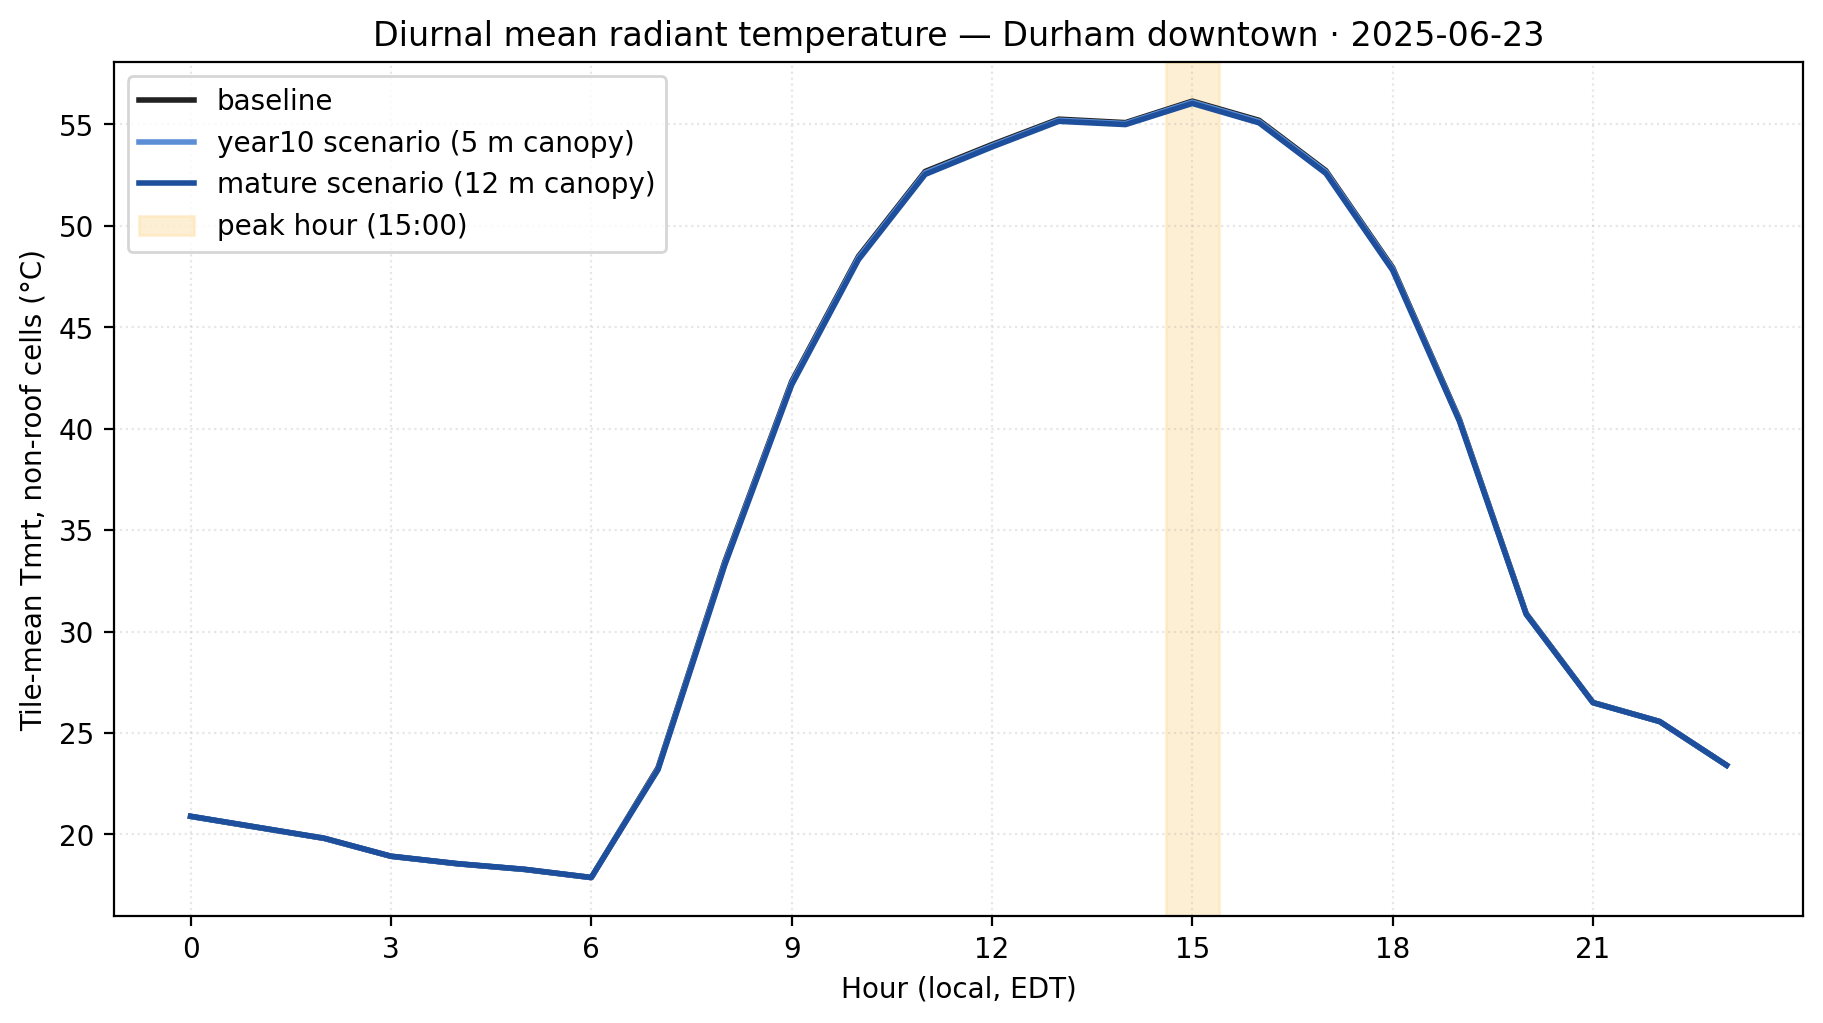
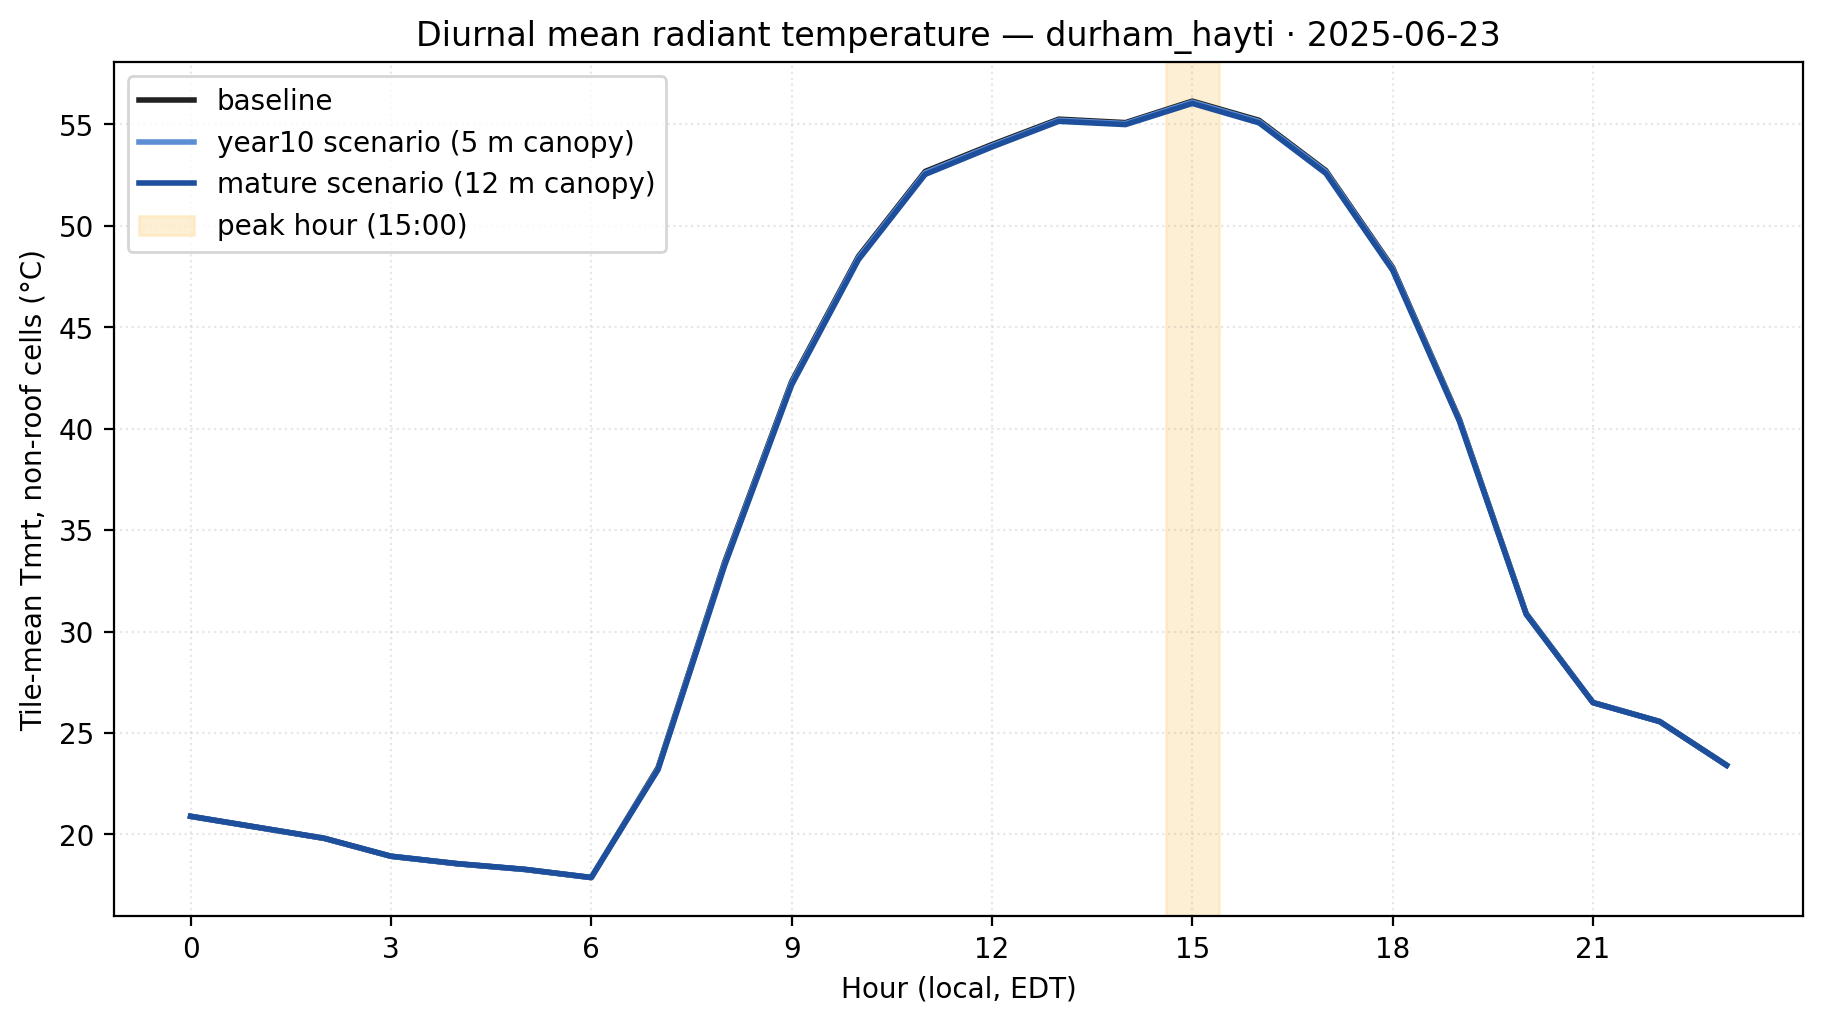
Reflection

Changed region(s): [[0.215, 0.0, 0.8294, 0.0606]]

diff --git a/scripts/07_make_figures.py b/scripts/07_make_figures.py
@@ -33,7 +33,7 @@ import numpy as np
 import rasterio
 import geopandas as gpd
 
-from _aoi import AOI_NAME, SIM_DATE, TILE_BBOX
+from _aoi import AOI_NAME, SIM_DATE, TILE_BBOX, AOI_SIZE_KM
 
 BASELINE = REPO / f"inputs/processed/{AOI_NAME}_baseline"
 TREES_GEOJSON = REPO / "inputs/raw/durham/trees_planting/durham_trees.geojson"
@@ -43,8 +43,28 @@ DIFF_DIR = REPO / f"outputs/{AOI_NAME}_scenario_diffs"
 DIFF_DIR.mkdir(parents=True, exist_ok=True)
 
 SCENARIOS = ["year10", "mature"]
+# PEAK_HOUR is the local hour with the highest tile-mean Tmrt across non-roof
+# pixels. Default 15 = mid-afternoon (typical CONUS summer peak), but main()
+# reassigns it to the discovered peak from the baseline TMRT — so a different
+# AOI / season picks the right hour automatically.
 PEAK_HOUR = 15
 NEAR_TREE_RADIUS_M = 30.0
+
+
+def discover_peak_hour(tmrt_path: Path, is_building: np.ndarray) -> int:
+    """Read all 24 bands of `tmrt_path`, mask roofs, return the hour (0..23)
+    with the highest non-roof tile mean. Used in place of a hardcoded peak
+    so Stage 7 picks the right hour for any AOI / date."""
+    means = []
+    with rasterio.open(tmrt_path) as ds:
+        for h in range(ds.count):
+            b = ds.read(h + 1).astype("float32")
+            v = b[(b > -100) & np.isfinite(b) & ~is_building]
+            means.append(float(v.mean()) if v.size else float("-inf"))
+    peak = int(np.argmax(means))
+    print(f"  peak hour discovered from baseline: {peak:02d}:00 "
+          f"(non-roof tile-mean Tmrt = {means[peak]:.1f}°C)")
+    return peak
 
 
 def load_planted_points() -> gpd.GeoDataFrame:
@@ -80,16 +100,17 @@ def merged_raster(output_folder: Path, prefix: str = "TMRT") -> tuple[Path, dict
             return merged, dict(transform=ds.transform, bounds=ds.bounds, shape=ds.shape)
     from rasterio.merge import merge as rio_merge
     handles = [rasterio.open(p) for p in tiles]
-    arr, transform = rio_merge(handles)  # arr shape: (bands, H, W)
+    nodata_val = handles[0].nodata  # carry through so downstream isfinite/nodata checks see it
+    arr, transform = rio_merge(handles, nodata=nodata_val)  # arr shape: (bands, H, W)
     profile = handles[0].profile.copy()
     for h in handles:
         h.close()
     profile.update(height=arr.shape[1], width=arr.shape[2], transform=transform,
-                   count=arr.shape[0], compress="lzw")
+                   count=arr.shape[0], compress="lzw", nodata=nodata_val)
     with rasterio.open(merged, "w", **profile) as out:
         out.write(arr)
     print(f"  merged {len(tiles)} {prefix} tiles → {merged.name} "
-          f"(shape {arr.shape[1]}×{arr.shape[2]}, {arr.shape[0]} bands)")
+          f"(shape {arr.shape[1]}×{arr.shape[2]}, {arr.shape[0]} bands, nodata={nodata_val})")
     with rasterio.open(merged) as ds:
         return merged, dict(transform=ds.transform, bounds=ds.bounds, shape=ds.shape)
 
@@ -151,7 +172,7 @@ def fig1_three_panel(scenario: str, base_t: np.ndarray, scen_t: np.ndarray,
         ax.set_xticks([]); ax.set_yticks([])
         ax.set_aspect("equal")
 
-    fig.suptitle(f"Durham downtown — {SIM_DATE} — '{scenario}' canopy scenario",
+    fig.suptitle(f"{AOI_NAME} — {SIM_DATE} — '{scenario}' canopy scenario",
                  fontsize=12, y=1.02)
     out = FIG_DIR / f"fig1_three_panel_{scenario}.png"
     fig.savefig(out, dpi=200, bbox_inches="tight")
@@ -172,7 +193,7 @@ def fig2_histogram(diffs_by_scenario: dict[str, np.ndarray]) -> None:
     ax.set_xlabel(f"ΔTmrt at peak hour h={PEAK_HOUR} local (°C)")
     ax.set_ylabel("number of pedestrian-accessible cells")
     ax.set_title(f"Tmrt change near planted sites (≤{NEAR_TREE_RADIUS_M:.0f} m, non-roof)\n"
-                 f"Durham downtown · {SIM_DATE}")
+                 f"{AOI_NAME} · {SIM_DATE}")
     ax.legend()
     ax.set_yscale("log")
     out = FIG_DIR / "fig2_near_tree_histogram.png"
@@ -195,7 +216,7 @@ def fig3_diurnal(hourly: dict[str, list[float]]) -> None:
                label=f"peak hour ({PEAK_HOUR}:00)")
     ax.set_xlabel("Hour (local, EDT)")
     ax.set_ylabel("Tile-mean Tmrt, non-roof cells (°C)")
-    ax.set_title(f"Diurnal mean radiant temperature — Durham downtown · {SIM_DATE}")
+    ax.set_title(f"Diurnal mean radiant temperature — {AOI_NAME} · {SIM_DATE}")
     ax.set_xticks(range(0, 24, 3))
     ax.grid(alpha=0.3, linestyle=":")
     ax.legend(loc="upper left")
@@ -208,12 +229,16 @@ def fig3_diurnal(hourly: dict[str, list[float]]) -> None:
 # ----------------------------------------------------------- main
 
 def main() -> None:
+    global PEAK_HOUR
     print(f"== reading rasters ==")
     is_building = building_mask()
     pts = load_planted_points()
     print(f"  {len(pts)} planted points; {is_building.sum():,} building cells")
 
     base_tmrt_path, geom = merged_tmrt(BASELINE / "output_folder")
+    # Reassign the module-level PEAK_HOUR so fig titles / labels (which read it
+    # at call time) reflect the actual baseline peak, not the hardcoded default.
+    PEAK_HOUR = discover_peak_hour(base_tmrt_path, is_building)
     base_peak = read_band(base_tmrt_path, PEAK_HOUR + 1)
     bounds, transform, shape = geom["bounds"], geom["transform"], geom["shape"]
 
@@ -312,7 +337,8 @@ def main() -> None:
     headline_lines = [
         f"== Durham planted-tree intervention — peak hour ({PEAK_HOUR}:00 local, "
         f"{SIM_DATE}) ==", "",
-        f"At the {len(pts)} planned planting sites in the 1 km × 1 km downtown tile,",
+        f"At the {len(pts)} planned planting sites in the "
+        f"{AOI_SIZE_KM:g} km × {AOI_SIZE_KM:g} km {AOI_NAME} tile,",
         f"Durham's program delivers (median across planted pixels):", "",
     ]
     for h in head:

diff --git a/scripts/06_run_scenario.py b/scripts/06_run_scenario.py
@@ -6,7 +6,7 @@ Iterates over every `inputs/processed/{AOI_NAME}_scenario_*/` directory, fires
 
 Logs to `outputs/{AOI_NAME}_scenario_run.log` for live monitoring:
 
-    tail -f outputs/durham_downtown_scenario_run.log
+    tail -f outputs/{AOI_NAME}_scenario_run.log
 """
 from __future__ import annotations
 
@@ -113,15 +113,40 @@ def _patch_skip_walls_if_cached() -> None:
     wa.run_parallel_processing = run_with_skip
 
 
+def _scenario_outputs_complete(base: Path) -> tuple[bool, list[str]]:
+    """True iff every expected per-tile TMRT and UTCI output exists. Compares
+    against the Building_DSM tile set produced earlier in the same run, so it
+    works for any tile_size. Returns (complete, missing_paths)."""
+    out = base / "output_folder"
+    dsm_tiles = sorted((base / "processed_inputs" / "Building_DSM").glob("*.tif"))
+    if not out.exists() or not dsm_tiles:
+        return False, []
+    keys = [p.stem.replace("Building_DSM_", "") for p in dsm_tiles]
+    missing = []
+    for k in keys:
+        for prefix in ("TMRT", "UTCI"):
+            tile = out / k / f"{prefix}_{k}.tif"
+            if not tile.exists():
+                missing.append(str(tile.relative_to(base)))
+    return (len(missing) == 0), missing
+
+
 def run_one(base: Path) -> int:
     name = base.name.replace(f"{AOI_NAME}_scenario_", "")
     _log(f"running scenario '{name}' in {base}", header=True)
     preflight(base)
 
     if (base / "output_folder").exists():
-        _log(f"  WARN: {base/'output_folder'} already exists — skipping. "
-             f"Delete it to re-run.")
-        return 0
+        complete, missing = _scenario_outputs_complete(base)
+        if complete:
+            _log(f"  output_folder is complete — skipping (delete it to re-run).")
+            return 0
+        # Partial / corrupted prior run: wipe and re-do. Better than letting
+        # Stage 7 read a half-written tile and produce nonsense ΔTmrt.
+        import shutil
+        _log(f"  output_folder is INCOMPLETE — missing {len(missing)} tile file(s) "
+             f"(e.g., {missing[:3]}). Wiping and re-running.")
+        shutil.rmtree(base / "output_folder")
 
     _patch_skip_walls_if_cached()
     from solweig_gpu import thermal_comfort

diff --git a/scripts/_inspect_web.py b/scripts/_inspect_web.py
@@ -94,15 +94,16 @@ def _solweig_raster(prefix: str) -> Path:
         return merged
     from rasterio.merge import merge as rio_merge
     handles = [rasterio.open(p) for p in tiles]
-    arr, transform = rio_merge(handles)
+    nodata_val = handles[0].nodata
+    arr, transform = rio_merge(handles, nodata=nodata_val)
     profile = handles[0].profile.copy()
     for h in handles:
         h.close()
     profile.update(height=arr.shape[1], width=arr.shape[2], transform=transform,
-                   count=arr.shape[0], compress="lzw")
+                   count=arr.shape[0], compress="lzw", nodata=nodata_val)
     with rasterio.open(merged, "w", **profile) as out:
         out.write(arr)
-    print(f"  merged {len(tiles)} {prefix} tiles → {merged.name}")
+    print(f"  merged {len(tiles)} {prefix} tiles → {merged.name} (nodata={nodata_val})")
     return merged
 TREES_GEOJSON_RAW = REPO / "inputs/raw/durham/trees_planting/durham_trees.geojson"
 WEB.mkdir(parents=True, exist_ok=True)
@@ -250,7 +251,7 @@ INDEX_HTML = '''<!doctype html>
 <html lang="en">
 <head>
 <meta charset="utf-8">
-<title>Durham downtown — patched-raster inspection</title>
+<title>SOLWEIG inspector — patched-raster inspection</title>
 <meta name="viewport" content="initial-scale=1,maximum-scale=1,user-scalable=no">
 <link rel="stylesheet" href="https://unpkg.com/maplibre-gl@4.7.1/dist/maplibre-gl.css">
 <script src="https://unpkg.com/maplibre-gl@4.7.1/dist/maplibre-gl.js"></script>

diff --git a/scripts/05_build_scenario.py b/scripts/05_build_scenario.py
@@ -144,7 +144,10 @@ def burn_scenario(scenario_name: str, params: dict, sites: gpd.GeoDataFrame) -> 
     print(f"  copied {len(COPY_FROM_BASELINE)} inputs (verified byte-identical)")
     _seed_walls_aspect_cache(out_dir)
 
-    # Read baseline Trees + Landcover into memory for modification
+    # Read baseline Trees + Landcover into memory for modification.
+    # Invariant (verified 2026-04-26): Stage 3 writes Trees.tif as float32, so
+    # the profile carries dtype=float32 and astype here is a no-op. If Stage 3
+    # ever changes that, set trees_profile.update(dtype="float32") before write.
     with rasterio.open(BASELINE / "Trees.tif") as ds:
         trees = ds.read(1).astype("float32")
         trees_profile = ds.profile

diff --git a/scripts/04_run_baseline.py b/scripts/04_run_baseline.py
@@ -1,11 +1,11 @@
-"""Stage 4 — fire the baseline SOLWEIG run for Durham downtown.
+"""Stage 4 — fire the baseline SOLWEIG run for the AOI in scripts/_aoi.py.
 
 Runs `solweig_gpu.thermal_comfort()` against the SOLWEIG-ready rasters built in
 Stage 3 (post the 2026-04-26 canonical-method correction). Logs progress with
 wall-clock timestamps; tees everything to outputs/{AOI_NAME}_baseline_run.log
 so you can monitor from another terminal:
 
-    tail -f outputs/durham_downtown_baseline_run.log
+    tail -f outputs/{AOI_NAME}_baseline_run.log
 
 Expected runtime on this laptop (CPU only, no NVIDIA): ~50 minutes per the
 solweig-gpu JOSS benchmark for a 1500×1500 tile (~55 min on i7-10700).

diff --git a/scripts/_patch_buildings.py b/scripts/_patch_buildings.py
@@ -231,7 +231,7 @@ def main() -> None:
     valid_out = (new_dsm != -9999) & valid_dem
     diff = (new_dsm - dem)[valid_out]
     print(f"  (DSM − DEM) p99={np.percentile(diff, 99):.2f}m  "
-          f"max={diff.max():.2f}m  (gate: max < 250 for downtown Durham)")
+          f"max={diff.max():.2f}m  (gate: max < 250 m — sanity check for any Durham AOI)")
     vals, counts = np.unique(new_lc, return_counts=True)
     pct = {int(v): f"{100*c/new_lc.size:.1f}%" for v, c in zip(vals, counts)}
     print(f"  Landcover distribution: {pct}")
